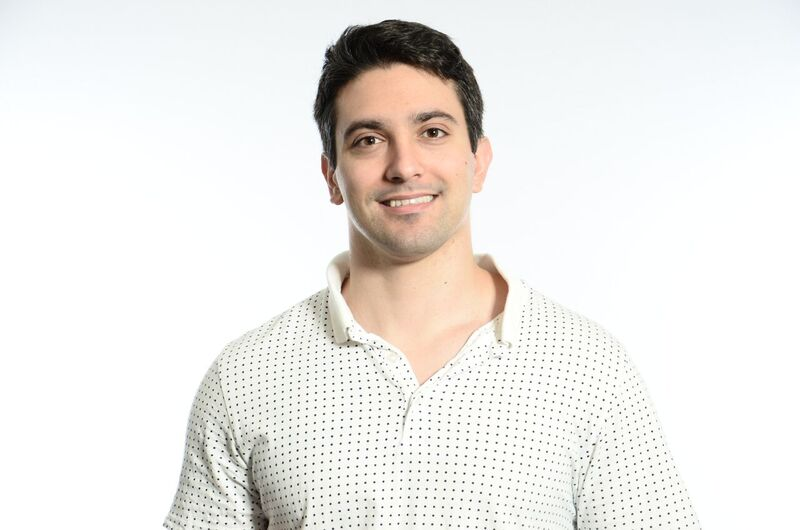
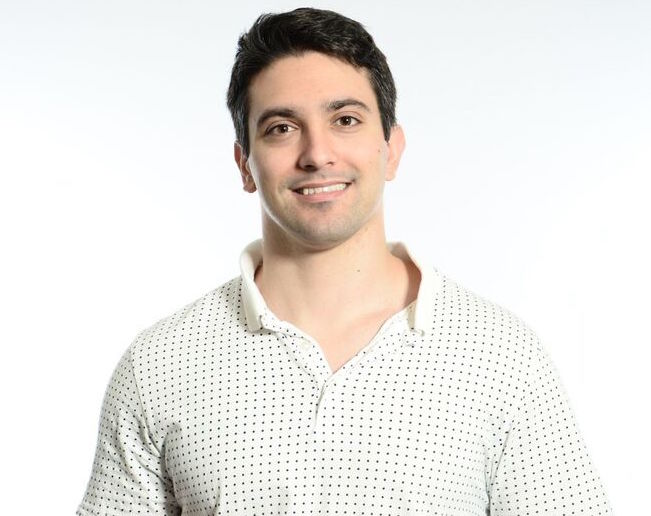
style changes

Changed region(s): [[0.0922, 0.0, 0.9217, 1.0]]

diff --git a/index.html b/index.html
@@ -6,66 +6,62 @@
 <script   src="https://code.jquery.com/jquery-2.2.4.min.js"   integrity="sha256-BbhdlvQf/xTY9gja0Dq3HiwQF8LaCRTXxZKRutelT44="   crossorigin="anonymous"></script>
 <script src="https://maxcdn.bootstrapcdn.com/bootstrap/3.3.6/js/bootstrap.min.js" integrity="sha384-0mSbJDEHialfmuBBQP6A4Qrprq5OVfW37PRR3j5ELqxss1yVqOtnepnHVP9aJ7xS" crossorigin="anonymous"></script>
 	<title>Greg's Portfolio</title>
-
-<body>
 </head>
+<body>
+
 
 <div id="houser">
-<header>
-<h1 class="class">Gregory D. Georgoulis</h1>
-<h2>Web Developer</h2>
-<h4>(beeeelieve  it !!!!!!!)</h4>
-</header>
-<div>
-	<img id="me" src="images/me.jpg">
-</div>
-<br>
-
-
-
-<br>
-
-<ul>
-	<h2>General Assembly Projects</h2>
-	<div id="carousel-example-generic" class="carousel slide" data-ride="carousel">
-  <ol class="carousel-indicators">
-    <li data-target="#carousel-example-generic" data-slide-to="0" class="active"></li>
-    <li data-target="#carousel-example-generic" data-slide-to="1"></li>
-    <li data-target="#carousel-example-generic" data-slide-to="2"></li>
-    <li data-target="#carousel-example-generic" data-slide-to="3"></li>
-  </ol>
-  <div class="carousel-inner" role="listbox">
-    <div class="item active">
-      <img class="img" data-src="images/bj.png" src="images/bj.png" alt="First slide">
-    </div>
-    <div class="item">
-     <img class="img"  data-src="images/mct.png" src="images/mct.png" alt="Second slide">
-    </div>
-    <div class="item">
-     <img class="img"  data-src="images/ma.png" src="images/ma.png" alt="Third slide">
-    </div>
-    <div class="item">
-     <img class="img"  data-src="images/kun.png" src="images/kun.png" alt="Fourth slide">
-    </div>
+  <header>
+    <h1 class="class">Gregory D. Georgoulis</h1>
+    <h2>Web Developer</h2>
+    <h4>(beeeelieve  it !!!!!!!)</h4>
+  </header>
+  <div>
+	 <img id="me" src="images/me.jpg">
   </div>
-  <a class="left carousel-control" href="#carousel-example-generic" role="button" data-slide="prev">
-    <span class="icon-prev" aria-hidden="true"></span>
-    <span class="sr-only">Previous</span>
-  </a>
-  <a class="right carousel-control" href="#carousel-example-generic" role="button" data-slide="next">
-    <span class="icon-next" aria-hidden="true"></span>
-    <span class="sr-only">Next</span>
-  </a>
-</div>
-	<h3>Black Jack game</h3>
-	<h4> <a href="http://gregorygeorgoulis.github.io/blackJack/">link to game</a> <a href="https://github.com/gregoryGeorgoulis/blackJack">GitHub</a> </h4>
-	<h3>Comic Book app</h3>
-		<h4> <a href="https://my-comic-app.herokuapp.com/users">link to app</a> <a href="https://github.com/gregoryGeorgoulis/project2">GitHub</a></h4>
-		<h3>Movie App</h3>
-		<h4> <a href="https://three-forks.herokuapp.com/"> link to app</a> <a href="https://github.com/gregoryGeorgoulis/project3/tree/master/project">GitHub</a></h4>
+  <br>
+  <br>
+  <ul>
+  	<h2>Projects</h2>
+  	<div id="carousel-example-generic" class="carousel slide" data-ride="carousel">
+      <ol class="carousel-indicators">
+        <li data-target="#carousel-example-generic" data-slide-to="0" class="active"></li>
+        <li data-target="#carousel-example-generic" data-slide-to="1"></li>
+        <li data-target="#carousel-example-generic" data-slide-to="2"></li>
+        <li data-target="#carousel-example-generic" data-slide-to="3"></li>
+      </ol>
+      <div class="carousel-inner" role="listbox">
+        <div class="item active">
+          <img class="img" data-src="images/bj.png" src="images/bj.png" alt="First slide">
+        </div>
+        <div class="item">
+          <img class="img"  data-src="images/mct.png" src="images/mct.png" alt="Second slide">
+        </div>
+        <div class="item">
+          <img class="img"  data-src="images/ma.png" src="images/ma.png" alt="Third slide">
+        </div>
+        <div class="item">
+          <img class="img"  data-src="images/kun.png" src="images/kun.png" alt="Fourth slide">
+        </div>
+      </div>
+      <a class="left carousel-control" href="#carousel-example-generic" role="button" data-slide="prev">
+        <span class="icon-prev" aria-hidden="true"></span>
+        <span class="sr-only">Previous</span>
+      </a>
+      <a class="right carousel-control" href="#carousel-example-generic" role="button" data-slide="next">
+        <span class="icon-next" aria-hidden="true"></span>
+        <span class="sr-only">Next</span>
+      </a>
+    </div>
+  	<h3>Black Jack game</h3>
+  	<h4> <a href="http://gregorygeorgoulis.github.io/blackJack/">link to game</a> <a href="https://github.com/gregoryGeorgoulis/blackJack">GitHub</a> </h4>
+  	<h3>Comic Book app</h3>
+  	<h4> <a href="https://my-comic-app.herokuapp.com/users">link to app</a> <a href="https://github.com/gregoryGeorgoulis/project2">GitHub</a></h4>
+  	<h3>Movie App</h3>
+  	<h4> <a href="https://three-forks.herokuapp.com/"> link to app</a> <a href="https://github.com/gregoryGeorgoulis/project3/tree/master/project">GitHub</a></h4>
     <h3>Know Your Nation</h3>
     <h4> <a href="https://know-your-nation.herokuapp.com/">link to app</a> <a href="https://github.com/gregoryGeorgoulis/final">GitHub</a></h4>
-</ul>
+  </ul>
 </div>
 </body>
 </html>

diff --git a/styles.css b/styles.css
@@ -9,22 +9,24 @@ h4{
 	text-align: center;
 	color: black;
 	text-shadow: 1px 1px blue;
+	
 }
 body{
-	background-color: black;
+	background-image: url('images/code.jpg');
+	background-repeat: no-repeat;
+	background-size: cover;
+	filter: opacity(50%);
 }
 header{
 	padding: 0;
 	margin: 0;
-	background-color: black;
 	text-align: center;
 	color: white;
 }
 #me{
-	width: 20%;
+	width: 25%;
 	height: auto;
-	border: 2px solid blue;
-	border-radius: 10% 10% 10% 10%;
+	border-radius: 100% 100% 100% 100%;
 }
 ul{
 	list-style-type: none;
@@ -32,13 +34,21 @@ ul{
 }
 #carousel-example-generic{
 	text-align: center;
-	height: 20em;
+	height: 25em;
+	margin-bottom: 5rem;
+	padding-top: 1rem;
 	
 }
 .img{
 	border-radius: 10% 10% 10% 10%;
-	margin-left: 35%;
-	width: 30%;
+	margin-left: 30%;
+	width: 40%;
 	height: 20em;
+}
 
+.carousel-control.left,.carousel-control.right{
+	opacity: 0;
+}
+.carousel-indicators .active{
+	background-color: red;
 }
